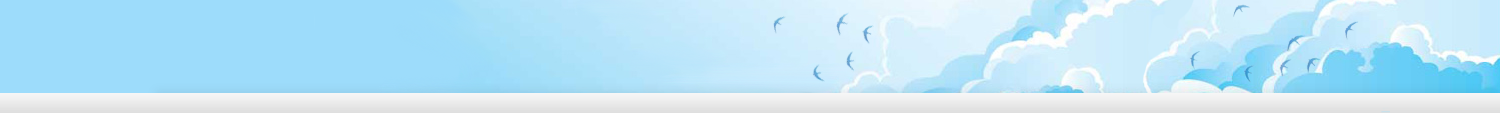
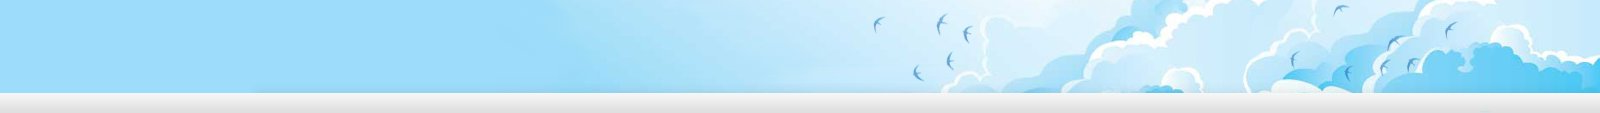
MDL-39835 theme_sky_high: Fix for footer to display correctly in higher resolutions.

Changed region(s): [[0.5213, 0.0, 1.0, 0.8496], [0.4907, 0.1593, 0.6133, 0.3186]]

diff --git a/style/admin.css b/style/admin.css
@@ -7,6 +7,7 @@ body.pagelayout-admin.has_dock {
     width: 100%;
     margin: 0 auto;
     position: relative;
+    max-width: 1664px;
 }
 .pagelayout-admin #page-footer {
     float: none;

diff --git a/style/pagelayout.css b/style/pagelayout.css
@@ -10,9 +10,9 @@ body {
 }
 
 #page {
-    width:100%;
-    max-width: 1600px;
-    margin:0 auto;
+    width: 100%;
+    max-width: 1760px;
+    margin: 0 auto;
 }
 
 #page-content {

diff --git a/style/report.css b/style/report.css
@@ -1,5 +1,8 @@
 /** Report layout **/
 
+.pagelayout-report #page {
+    max-width: 1664px;
+}
 #report-wrapper {
     background: #fff;
     margin: 20px 2% 0;
